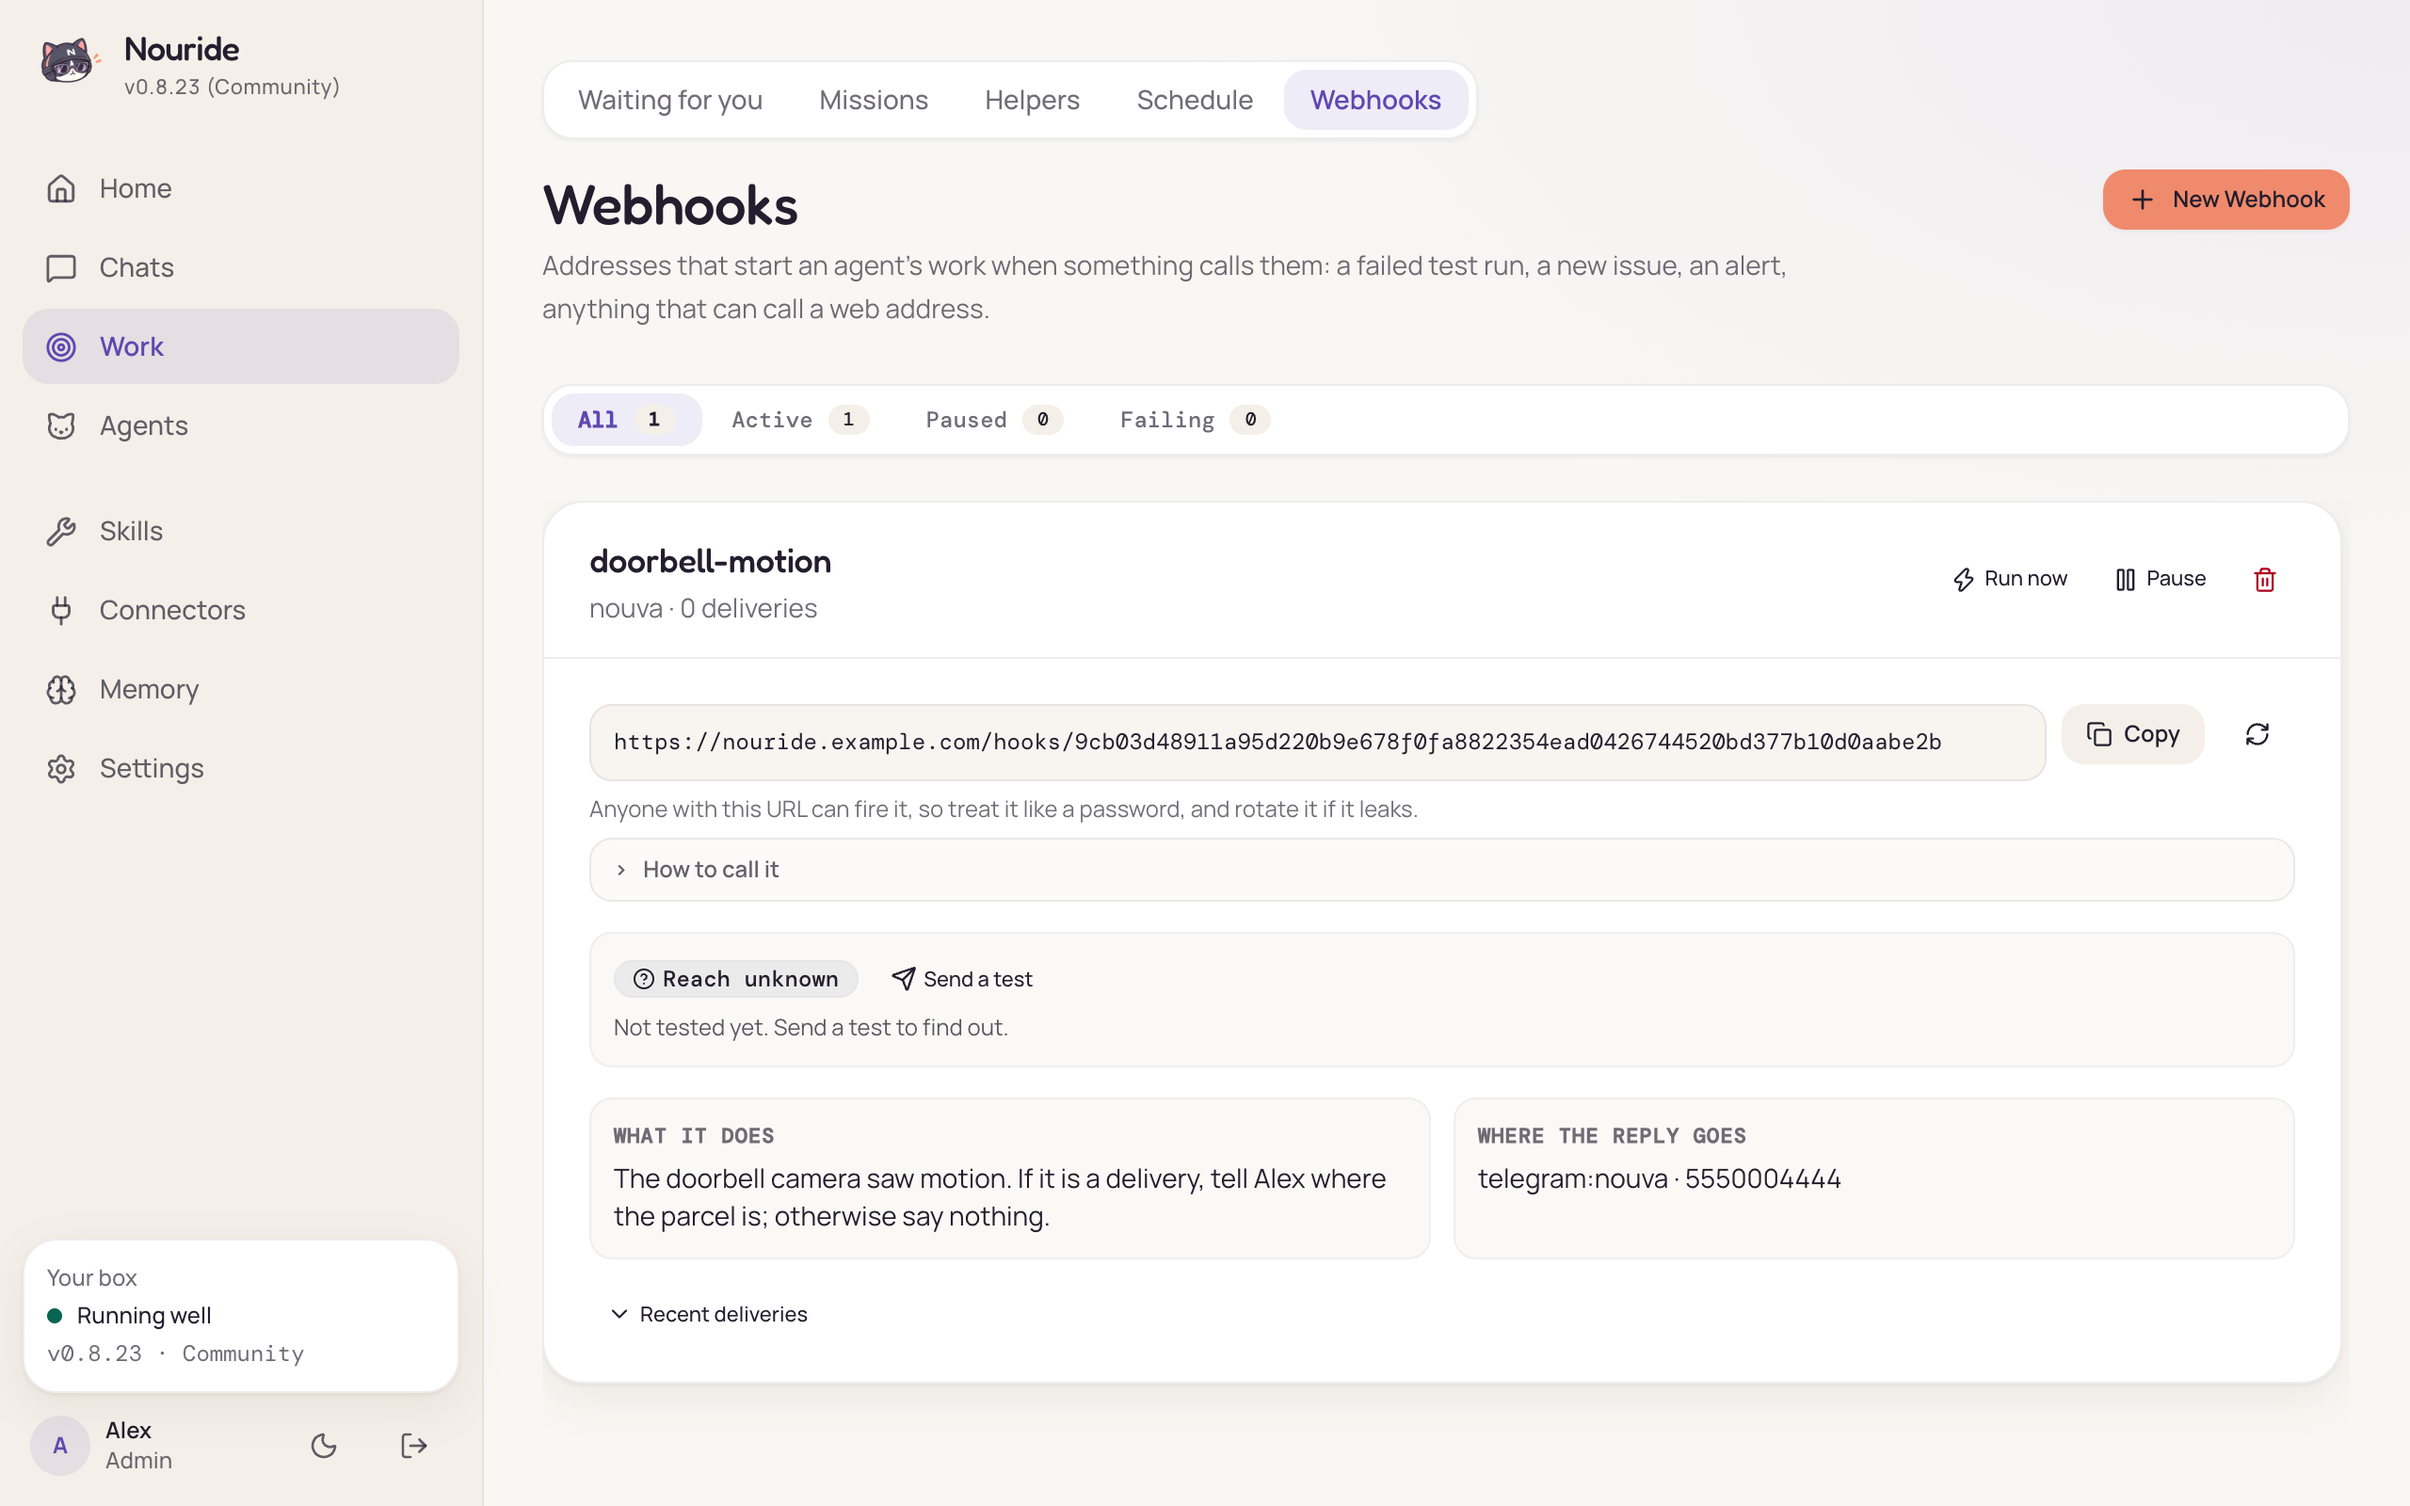
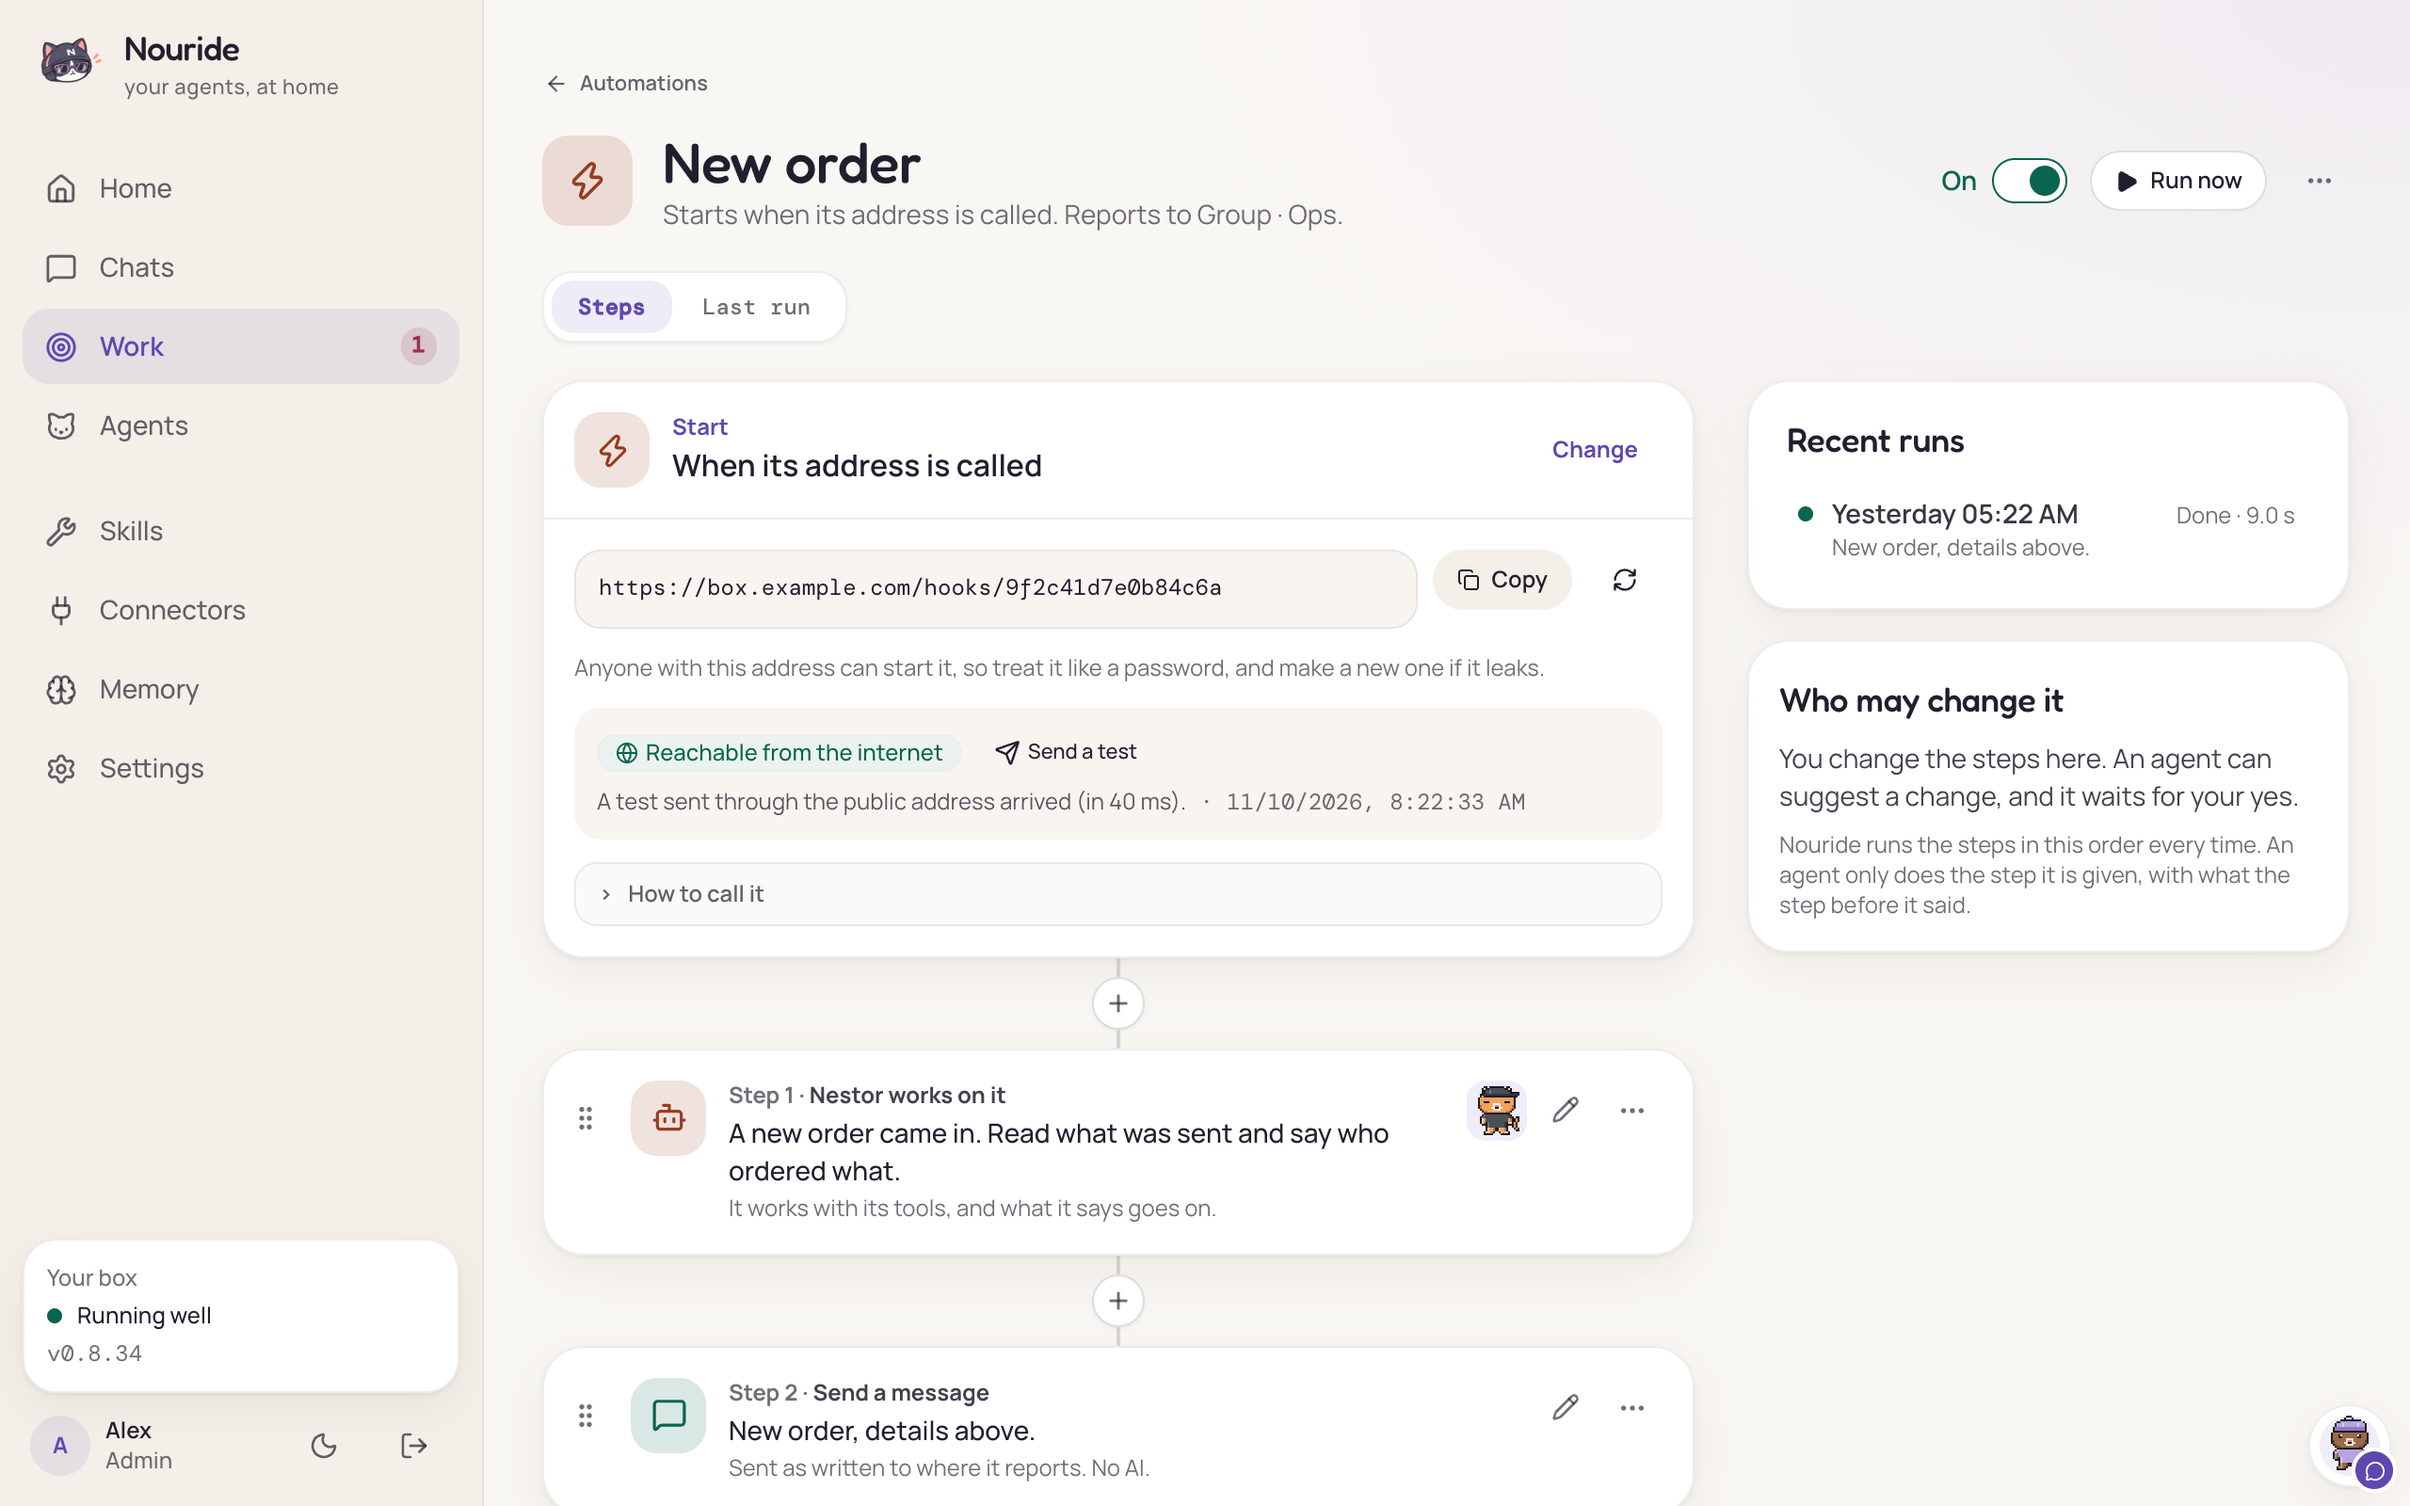
docs(site): the manual's pictures and the landing tour show Automations
The manual's Automations page showed the Schedule and Webhooks pages that are gone. Its pictures are the list, one
automation's page with its steps and their paths, and an automation a webhook starts; the landing tour's last tab and
its card under "They learn" are Automations, with the list's picture. Shot from the built dashboard over made-up
answers, signed in as "Alex", at 1280 wide and a device scale of 2.

`bun run lint:site`: clean.

diff --git a/apps/site/scripts/make-placeholders.ts b/apps/site/scripts/make-placeholders.ts
@@ -28,7 +28,8 @@ const SLOTS: { name: string; label: string; hint: string; w: number; h: number }
   { name: "dashboard-agent-model", label: "Agent — Model", hint: "provider profile and model for one agent", w: 1600, h: 900 },
   { name: "dashboard-agent-connections", label: "Agent — Connections", hint: "the bots and numbers this agent answers on", w: 1600, h: 900 },
   { name: "dashboard-skills", label: "Skills Workshop", hint: "the pool, drafts pinned above it, per-agent badges", w: 1600, h: 900 },
-  { name: "dashboard-schedule", label: "Schedule", hint: "cron jobs, next run, active / paused / failing", w: 1600, h: 900 },
+  { name: "dashboard-automations", label: "Automations", hint: "the list: what starts each one, its steps, its last run", w: 1600, h: 900 },
+  { name: "dashboard-automation-steps", label: "Automations, one automation", hint: "its start, its steps as cards with their paths, its recent runs", w: 1600, h: 1475 },
   { name: "dashboard-approvals", label: "Approval card", hint: "one blocked tool call, allow once / always / deny", w: 1200, h: 700 },
   { name: "dashboard-update", label: "Update", hint: "running version, newest for this edition, download then install", w: 1600, h: 900 },
   { name: "dashboard-update-container", label: "Update — a container", hint: "the refusal, with the pull command it hands back", w: 1600, h: 900 },
@@ -46,7 +47,7 @@ const SLOTS: { name: string; label: string; hint: string; w: number; h: number }
   { name: "dashboard-agent-access", label: "Agent — Access", hint: "accept new senders, its senders at a glance", w: 1600, h: 1000 },
   { name: "dashboard-agent-approvals", label: "Agent — Access, Approvals", hint: "the approval level on an agent's Access tab", w: 1600, h: 1000 },
   { name: "dashboard-people", label: "People", hint: "one entry per person and the ids they are reachable at", w: 1600, h: 1000 },
-  { name: "dashboard-webhooks", label: "Webhooks", hint: "one hook: URL, how to call it, what it runs, where the reply goes", w: 1600, h: 1000 },
+  { name: "dashboard-webhooks", label: "Automations, a webhook", hint: "an automation a webhook starts: its address, how to call it, its steps", w: 1600, h: 1000 },
   { name: "dashboard-models", label: "Models", hint: "provider profiles, credential names, used by", w: 1600, h: 1000 },
   { name: "dashboard-integrations", label: "Integrations", hint: "the MCP server address and its tokens", w: 1600, h: 1000 },
   { name: "skills-learning", label: "Skills — Self-Improving Skill", hint: "the panel open: the mode, the model, the weekly review", w: 1600, h: 1000 },

diff --git a/apps/site/src/content/docs/id/docs/manual/schedule.md b/apps/site/src/content/docs/id/docs/manual/schedule.md
@@ -12,7 +12,7 @@ menentukan kapan ia jalan, dan **langkah-langkah**, yang menentukan apa yang dik
 | **Saat dipanggil** | webhook: saat URL-nya dipanggil, bukan saat jam tertentu |
 | **Manual** | saat kamu menekan **Run now** |
 
-![Halaman Schedule](/media/dashboard-schedule.png)
+![Halaman Automations: tiap automation dengan pemicunya, langkah-langkahnya, dan hasil run terakhirnya](/media/dashboard-automations.png)
 
 Halaman **Automations** di dashboard (Work → Automations) menampilkan semuanya, apa pun awalnya, dengan
 satu dropdown untuk melihat yang terjadwal saja, yang webhook, atau yang manual. Di sanalah kamu membuat,
@@ -43,6 +43,8 @@ terakhir adalah yang dikirim automation ke chat-nya.
 Di halaman automation, langkah-langkahnya berupa kartu sesuai urutan jalannya. Tekan kartu untuk
 mengubahnya, tekan tanda plus di antara dua kartu untuk menambah langkah, dan seret kartu untuk
 memindahkannya. Gak ada yang berubah sebelum kamu menekan **Save**.
+
+![Halaman satu automation: pemicunya, langkah-langkahnya sebagai kartu dengan jalur di antaranya, dan run terakhirnya](/media/dashboard-automation-steps.png)
 
 ### Ke mana automation lanjut
 
@@ -224,7 +226,7 @@ membuatnya. Izin *allow always* milik job lama gak ikut ke bentuk barunya: ia be
 
 Endpoint yang menjalankan sebuah job ketika ada yang memanggilnya.
 
-![Sebuah webhook: URL-nya, cara memanggilnya, apa yang dijalankan dan ke mana balasannya](/media/dashboard-webhooks.png)
+![Automation yang dimulai webhook: alamatnya, cara memanggilnya, dan langkah yang dijalankannya](/media/dashboard-webhooks.png)
 
 ```bash
 nouride webhook                  # apa yang ada, beserta URL-nya

diff --git a/apps/site/src/content/docs/en/docs/manual/schedule.md b/apps/site/src/content/docs/en/docs/manual/schedule.md
@@ -12,7 +12,7 @@ and its **steps**, which say what it does.
 | **When called** | a webhook: when its URL is called, rather than on a clock |
 | **By hand** | when you press **Run now** |
 
-![The Schedule page](/media/dashboard-schedule.png)
+![The Automations page: each automation with what starts it, its steps and how its last run went](/media/dashboard-automations.png)
 
 The dashboard's **Automations** page (Work → Automations) lists them all, whatever starts them, with one
 dropdown to see only the scheduled ones, the webhooks or the ones started by hand. It is where you make, change, run,
@@ -41,6 +41,8 @@ step are what the automation sends to its chat.
 
 On the automation's page the steps are cards in the order they run. Press a card to change it, press the plus
 between two cards to add a step, and drag a card to move it. Nothing changes until you press **Save**.
+
+![One automation's page: its start, its steps as cards with the paths between them, and its recent runs](/media/dashboard-automation-steps.png)
 
 ### Where a run goes next
 
@@ -213,7 +215,7 @@ allowed always does not carry over to its new shape: it asks again.
 
 An endpoint that runs a job when something calls it.
 
-![A webhook: its URL, how to call it, what it runs and where the reply goes](/media/dashboard-webhooks.png)
+![An automation a webhook starts: its address, how to call it, and the steps it runs](/media/dashboard-webhooks.png)
 
 ```bash
 nouride webhook                  # what exists, and its URL

diff --git a/apps/site/public/media/README.md b/apps/site/public/media/README.md
@@ -21,7 +21,7 @@ your work.
 ## Which ones the landing page uses
 
 Seven. The tour under the hero turns through six (`dashboard-overview`, `dashboard-chat`, `dashboard-agents`,
-`memory-graph`, `dashboard-skills`, `dashboard-schedule`), and the Office chapter draws `dashboard-office` at half the
+`memory-graph`, `dashboard-skills`, `dashboard-automations`), and the Office chapter draws `dashboard-office` at half the
 page's width. They are what a visitor sees before the docs, so they are worth keeping current first; the tour builds
 its own smaller WebP copies from these files, so replacing one here is all it takes. The rest are referenced from the
 manual, where a reader already knows what they are looking at.
